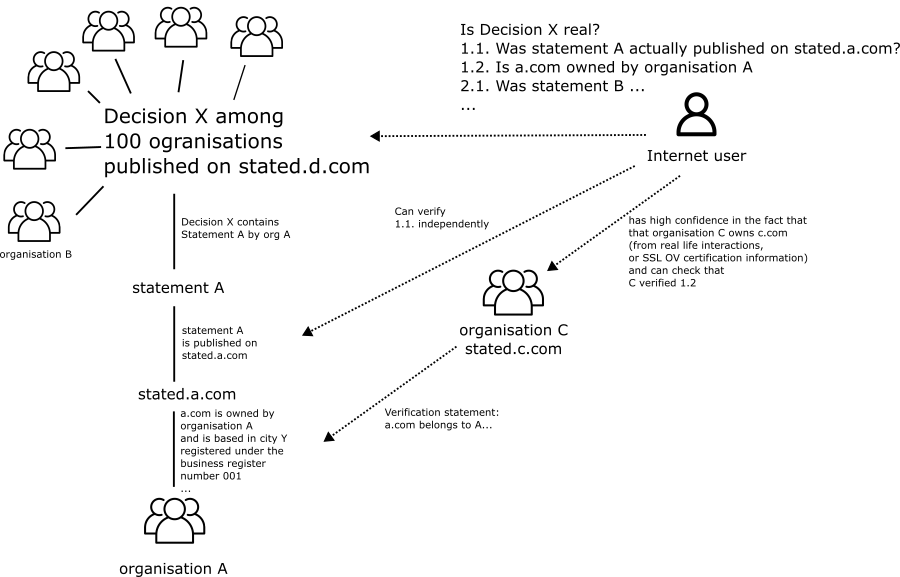
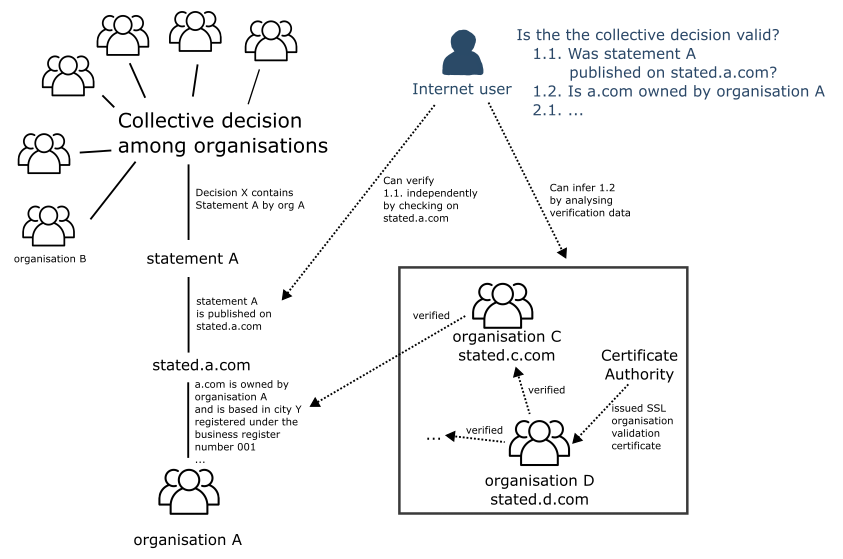
Improve readme

diff --git a/README.md b/README.md
@@ -1,14 +1,15 @@
 ### Stated
-Stated is an p2p network for collective decision making among large groups of organisations.<br />
-To achieve a collective decision, participating organisations publish open letter signatures (or other statements) on their website under a standardized subdomain and path in a standardized text format (such as https://stated.rixdata.net/own/statements.txt). This standardization allows for automated verification and aggregation of signatures.<br/>
-The signatures are verified, saved, re-broadcasted and aggregated by each node in the network. This decentralized design makes the system resistant to censorship.<br/>
+Stated enables large groups of organisations to make decisions collectively.<br />
+An example decision would be a set of private sanctions by companies to enforce international laws or peace.<br />
+To achieve a collective decision, participating organisations publish digital contract signatures as plain text statements on their website under a standardized subdomain and path in a standardized text format (such as https://stated.rixdata.net/own/statements.txt). This standardization allows for automated verification and aggregation of signatures.<br/>
+The signatures are verified, saved, re-broadcasted and aggregated by each node in the network. This decentralized design makes the system more resillient against censorship and manipulation.<br/>
 The identity of the signature authors are established by:
  - SSL Organisation Validation certificates (such as this [certificate](https://crt.sh/?sha256=2884EC1DE425003B57CFECF80CEE32865E6C9351B57F816F5FA7CC43FE5FA99D)) issued by certificate authorities
  - Cross verifications among participating organisations within stated (such as this [verification](https://stated.rixdata.net/statement/FwoLf1njZ3tMAujNh_t6NZy9qV2RDNmDjgqju86yDEo))
 
 ## Supported statement publication methods
 
-For publishing a statement, organisations or individuals can:
+For publishing a statement, organisations or individuals can use the following options:
 1. Publish it on their website domain in a text file (such as [https://stated.rixdata.net/own/statements.txt](https://stated.rixdata.net/own/statements.txt))
 2. Make sure individual statements can be retrieved by the hash of it's contents via the stated API under their domain:
 ```bash
@@ -22,15 +23,17 @@ delv @1.1.1.1 TXT stated.rixdata.net +short +trust | grep -e 'fully validated' -
 ```
 and then publish the full text of the statement statement through another organizations stated web app.
 4. Ask another organisation to publish statements on their behalf. This would be appropriate for example if the author does not own a domain name.
-## Online identities
-
-![visualisatiuon](https://github.com/c-riq/stated/blob/master/documents/diagram.png?raw=true)
-<b>Fig.1: Steps for validate a collective decision</b> Any internet user should be able to independently verify collective actions on stated.
-<br />
-Statements can either contain plain text messages or a strucutured message such as an Organisation Verification, for associating another website domain with an organisation
+## Establishing online identities
 
 ![visualisatiuon](https://github.com/c-riq/stated/blob/master/documents/example_verification_graph.png?raw=true)<br />
-<b>Fig.2: Example of a verification graph</b> Certificate Authority Sectigo issued a SSL OV certificate, validating that Rix Data NL B.V. owns rixdata.net. Rix Data NL B.V. verified that Rix Data UG owns gritapp.info, which published a PDF signature statement using their domain.  Rix Data UG also verified their own identity, represented by the loop, which is useful for reducing naming inconsistencies.
+<b>Fig.1: Example of a verification graph for a associating a domain to an organisation.</b> The Certificate Authority Sectigo issued a SSL OV certificate, validating that Rix Data NL B.V. owns rixdata.net. Rix Data NL B.V. verified that Rix Data UG owns gritapp.info, which published a PDF signature statement using their domain. Rix Data UG also verified their own identity, represented by the loop, which is useful for reducing naming inconsistencies.
+
+## Independant verifiability of decisions
+
+![visualisatiuon](https://github.com/c-riq/stated/blob/master/documents/diagram.png?raw=true)
+<b>Fig.2: Steps for validating a collective decision</b> Any internet user should be able to independently verify collective actions on stated.
+<br />
+Statements can either contain plain text messages or a strucutured message such as an Organisation Verification, for associating another website domain with an organisation
 
 
 ## Statement format
